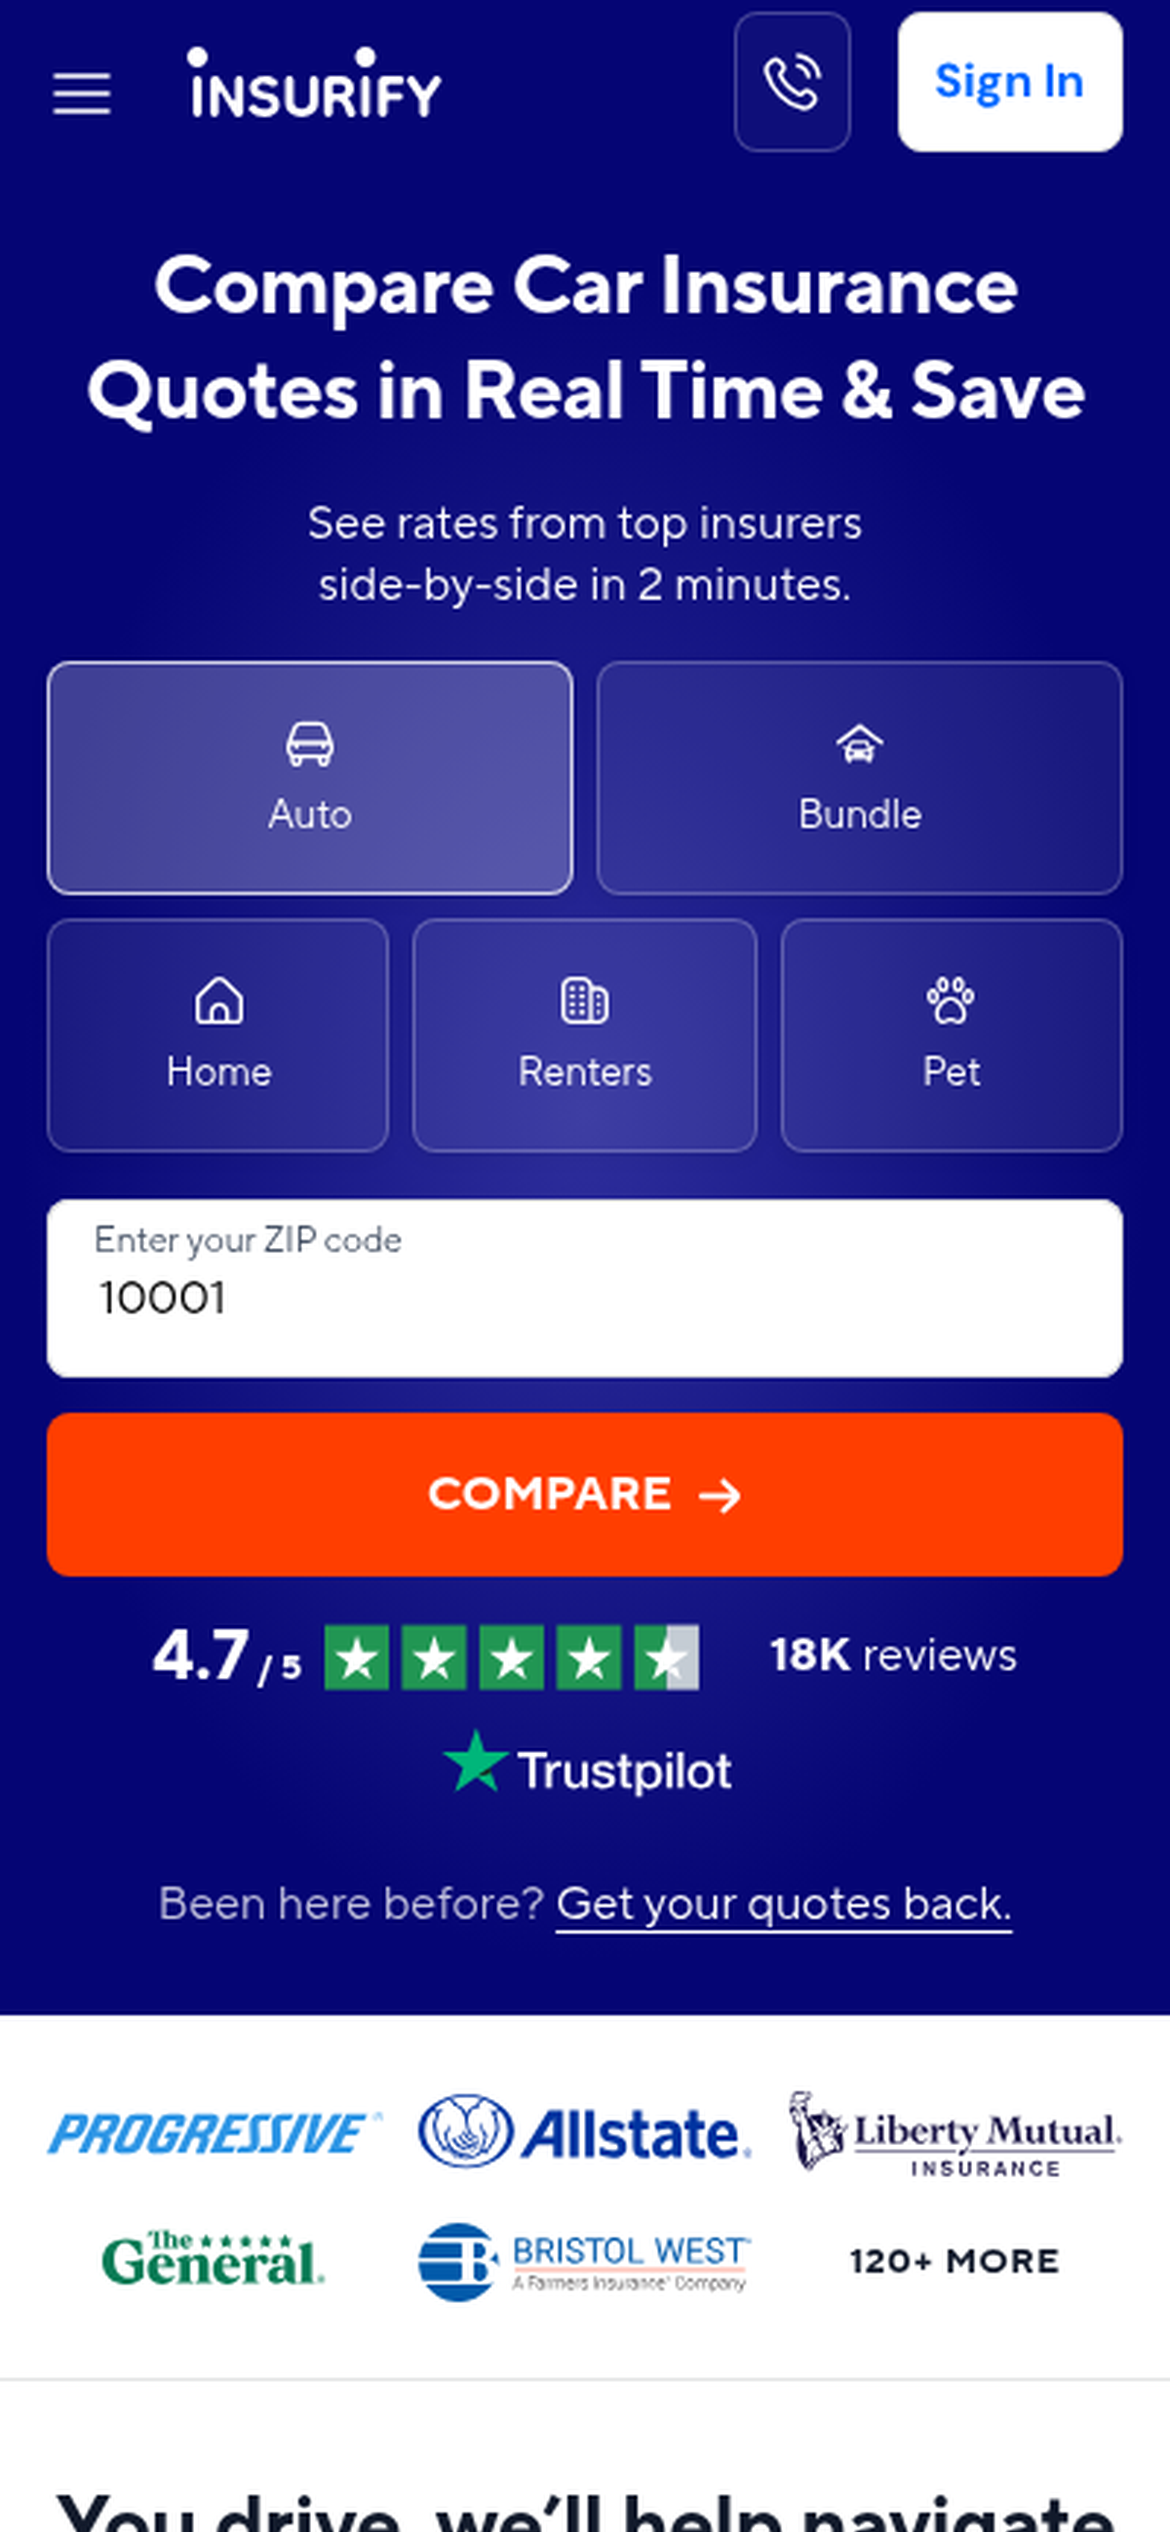
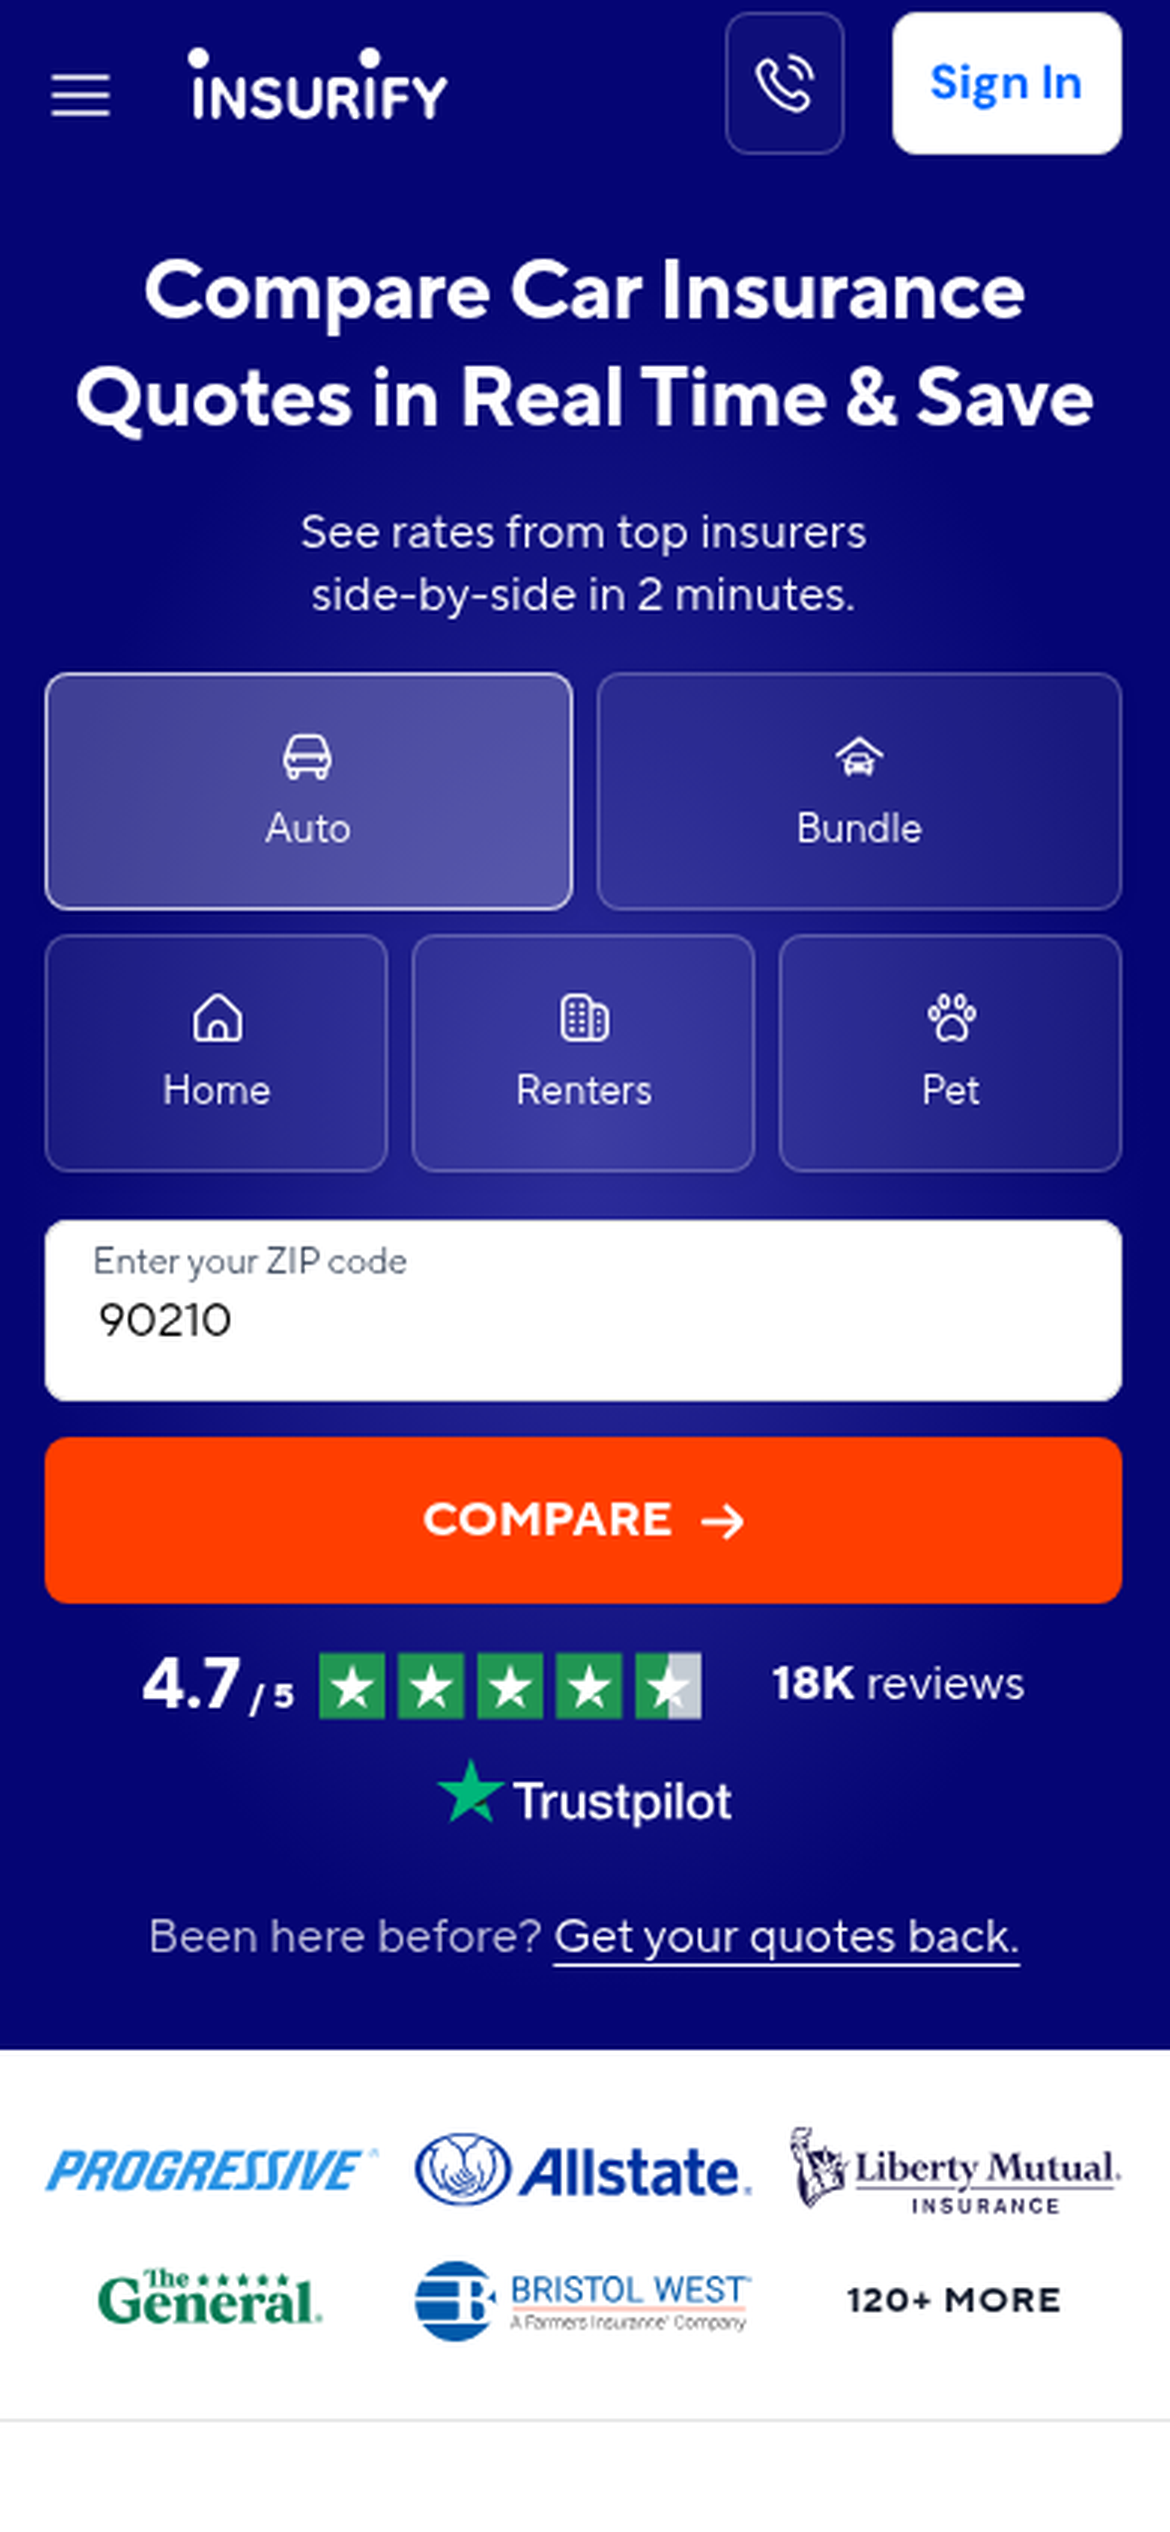
Insurify: native mobile 45 shots to offers (1170x2532)
Replace upscaled mobile captures with fresh native iPhone screenshots through the offers flow. Rebuild images.json (45 mobile entries). Mark Insurify done; Lemonade next; The Zebra stays skipped.

diff --git a/TODO.md b/TODO.md
@@ -13,7 +13,7 @@ Zmiany w tym pliku **bez osobnego deployu** — wjeżdżają przy następnym dep
 
 ## W toku
 
-- [ ] **Insurify** — świeże natywne mobile 1170×2532 (obecne na prod to upscale), bez DevTools; desktop już OK
+- [ ] **Lemonade** — desktop + mobile 1170×2532, bez DevTools
 
 ## Pominięte (wrócimy później)
 
@@ -21,14 +21,14 @@ Zmiany w tym pliku **bez osobnego deployu** — wjeżdżają przy następnym dep
 
 ## Kolejka
 
-1. [ ] **Lemonade** — desktop + mobile 1170×2532, bez DevTools
-2. [ ] **Mubi** — desktop + mobile 1170×2532, bez DevTools
-3. [ ] **GoCompare** — desktop + mobile 1170×2532, bez DevTools
-4. [ ] **Dark mode** — motyw ciemny z przełącznikiem
-5. [ ] **The Zebra** — wznowić później (oferty + mobile), gdy block opadnie
+1. [ ] **Mubi** — desktop + mobile 1170×2532, bez DevTools
+2. [ ] **GoCompare** — desktop + mobile 1170×2532, bez DevTools
+3. [ ] **Dark mode** — motyw ciemny z przełącznikiem
+4. [ ] **The Zebra** — wznowić później (oferty + mobile), gdy block opadnie
 
 ## Zrobione
 
+- [x] **Insurify** — desktop OK + natywne mobile **45 / 45** do ofert, 1170×2532, na produkcji
 - [x] **NerdWallet** — desktop 20 + mobile 21, 1920×1200 / 1170×2532, na produkcji
 - [x] **Kiosk Polis** — mobile 1170×2532 (**12 / 12**) na produkcji
 - [x] **Rankomat** mobile — 1170×2532 (**7 / 7**) na produkcji
